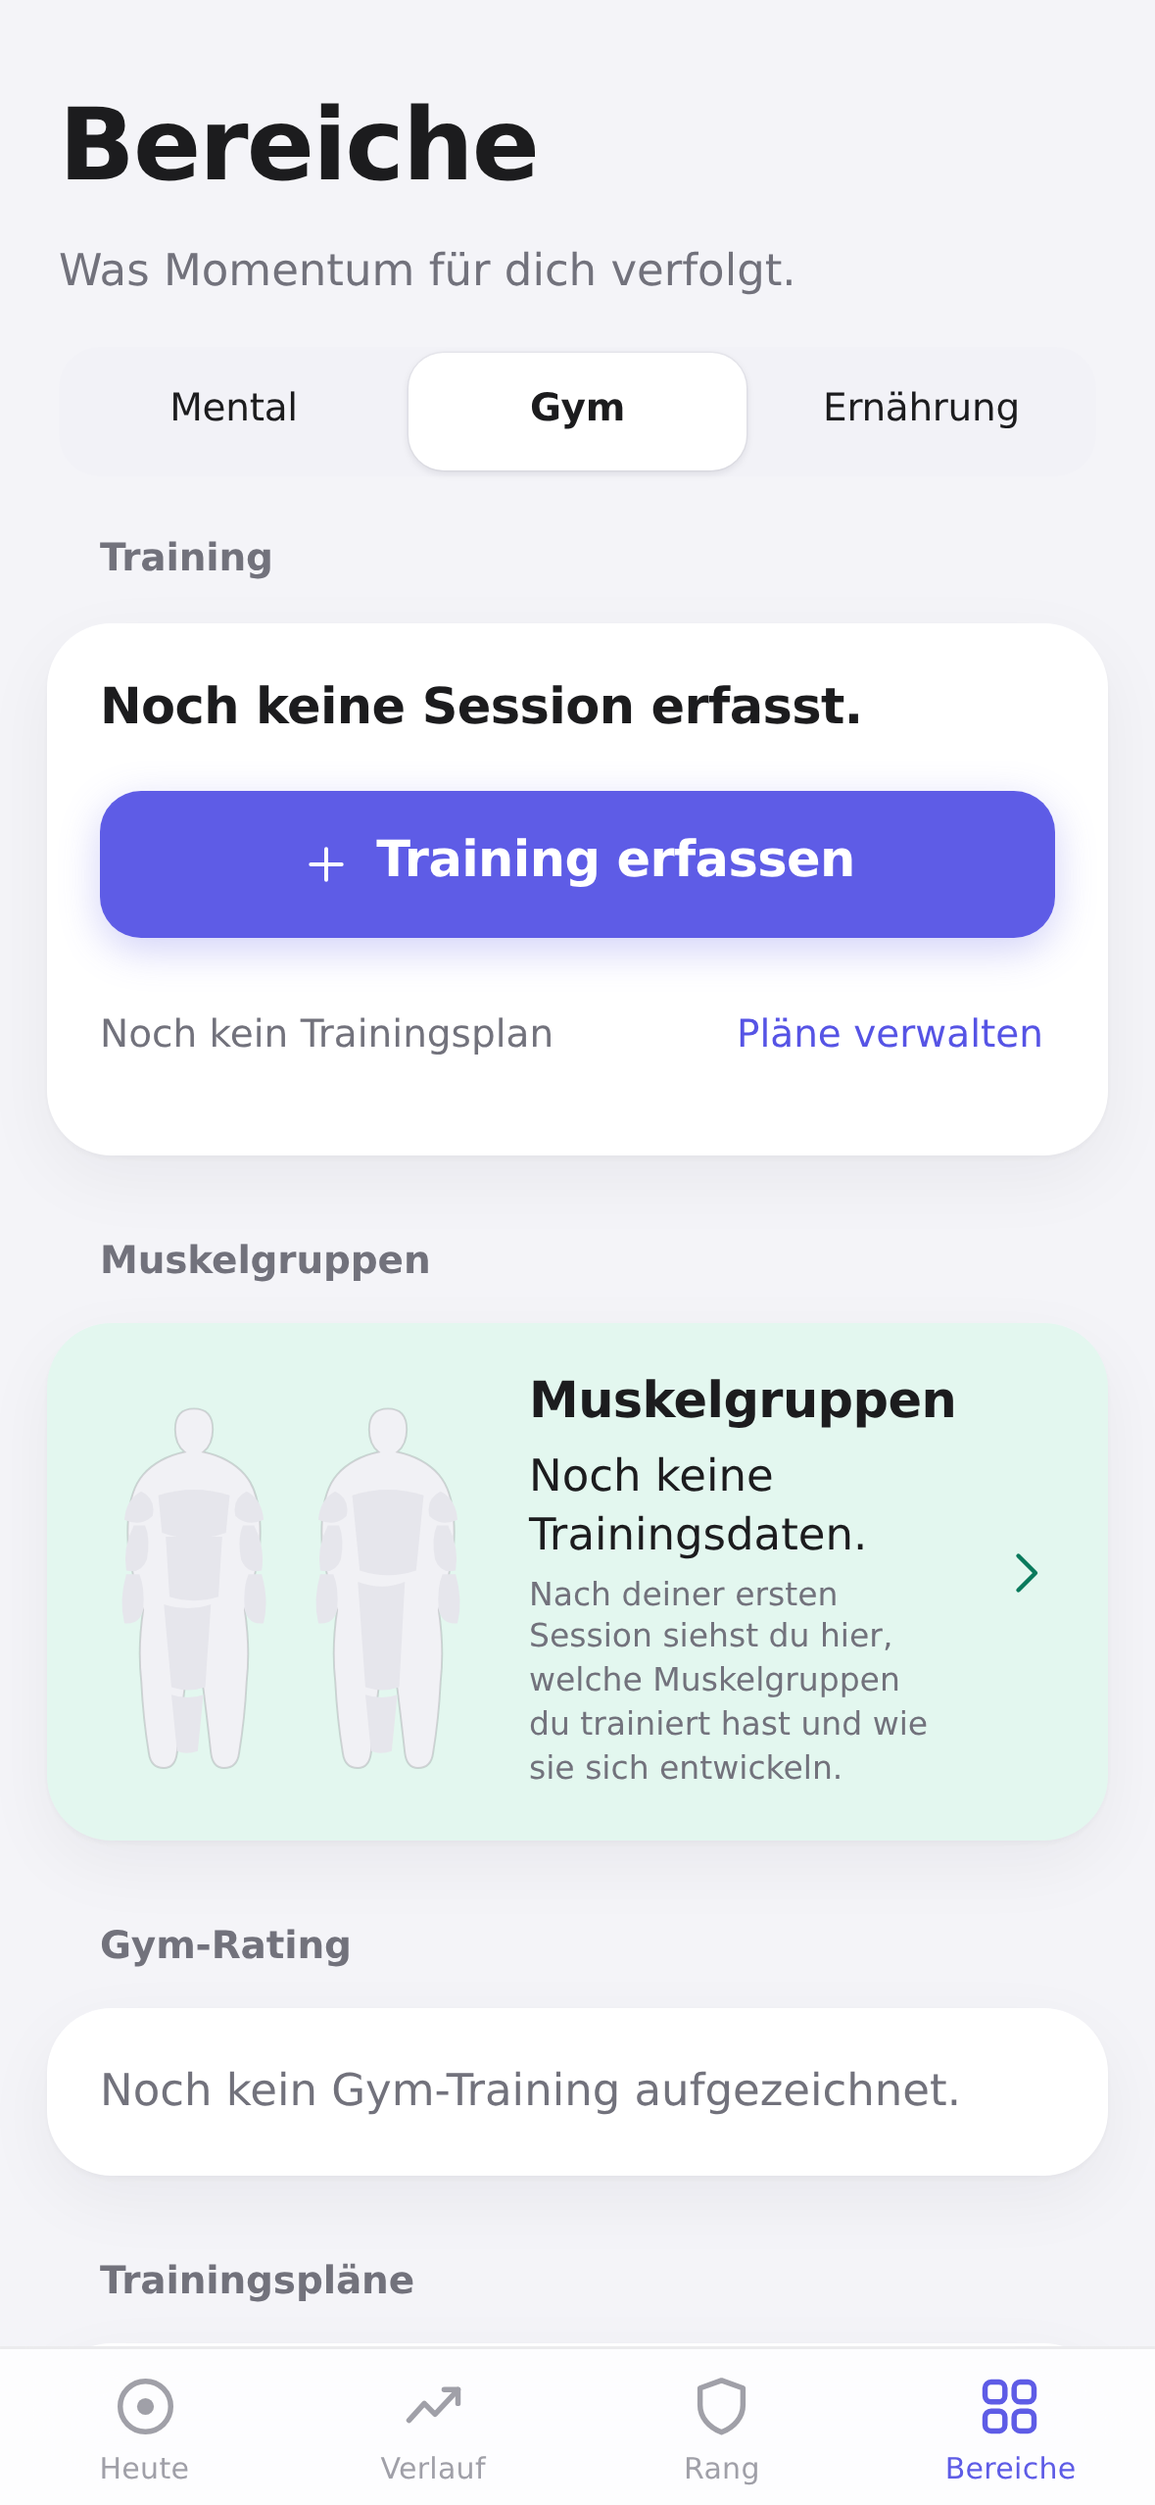
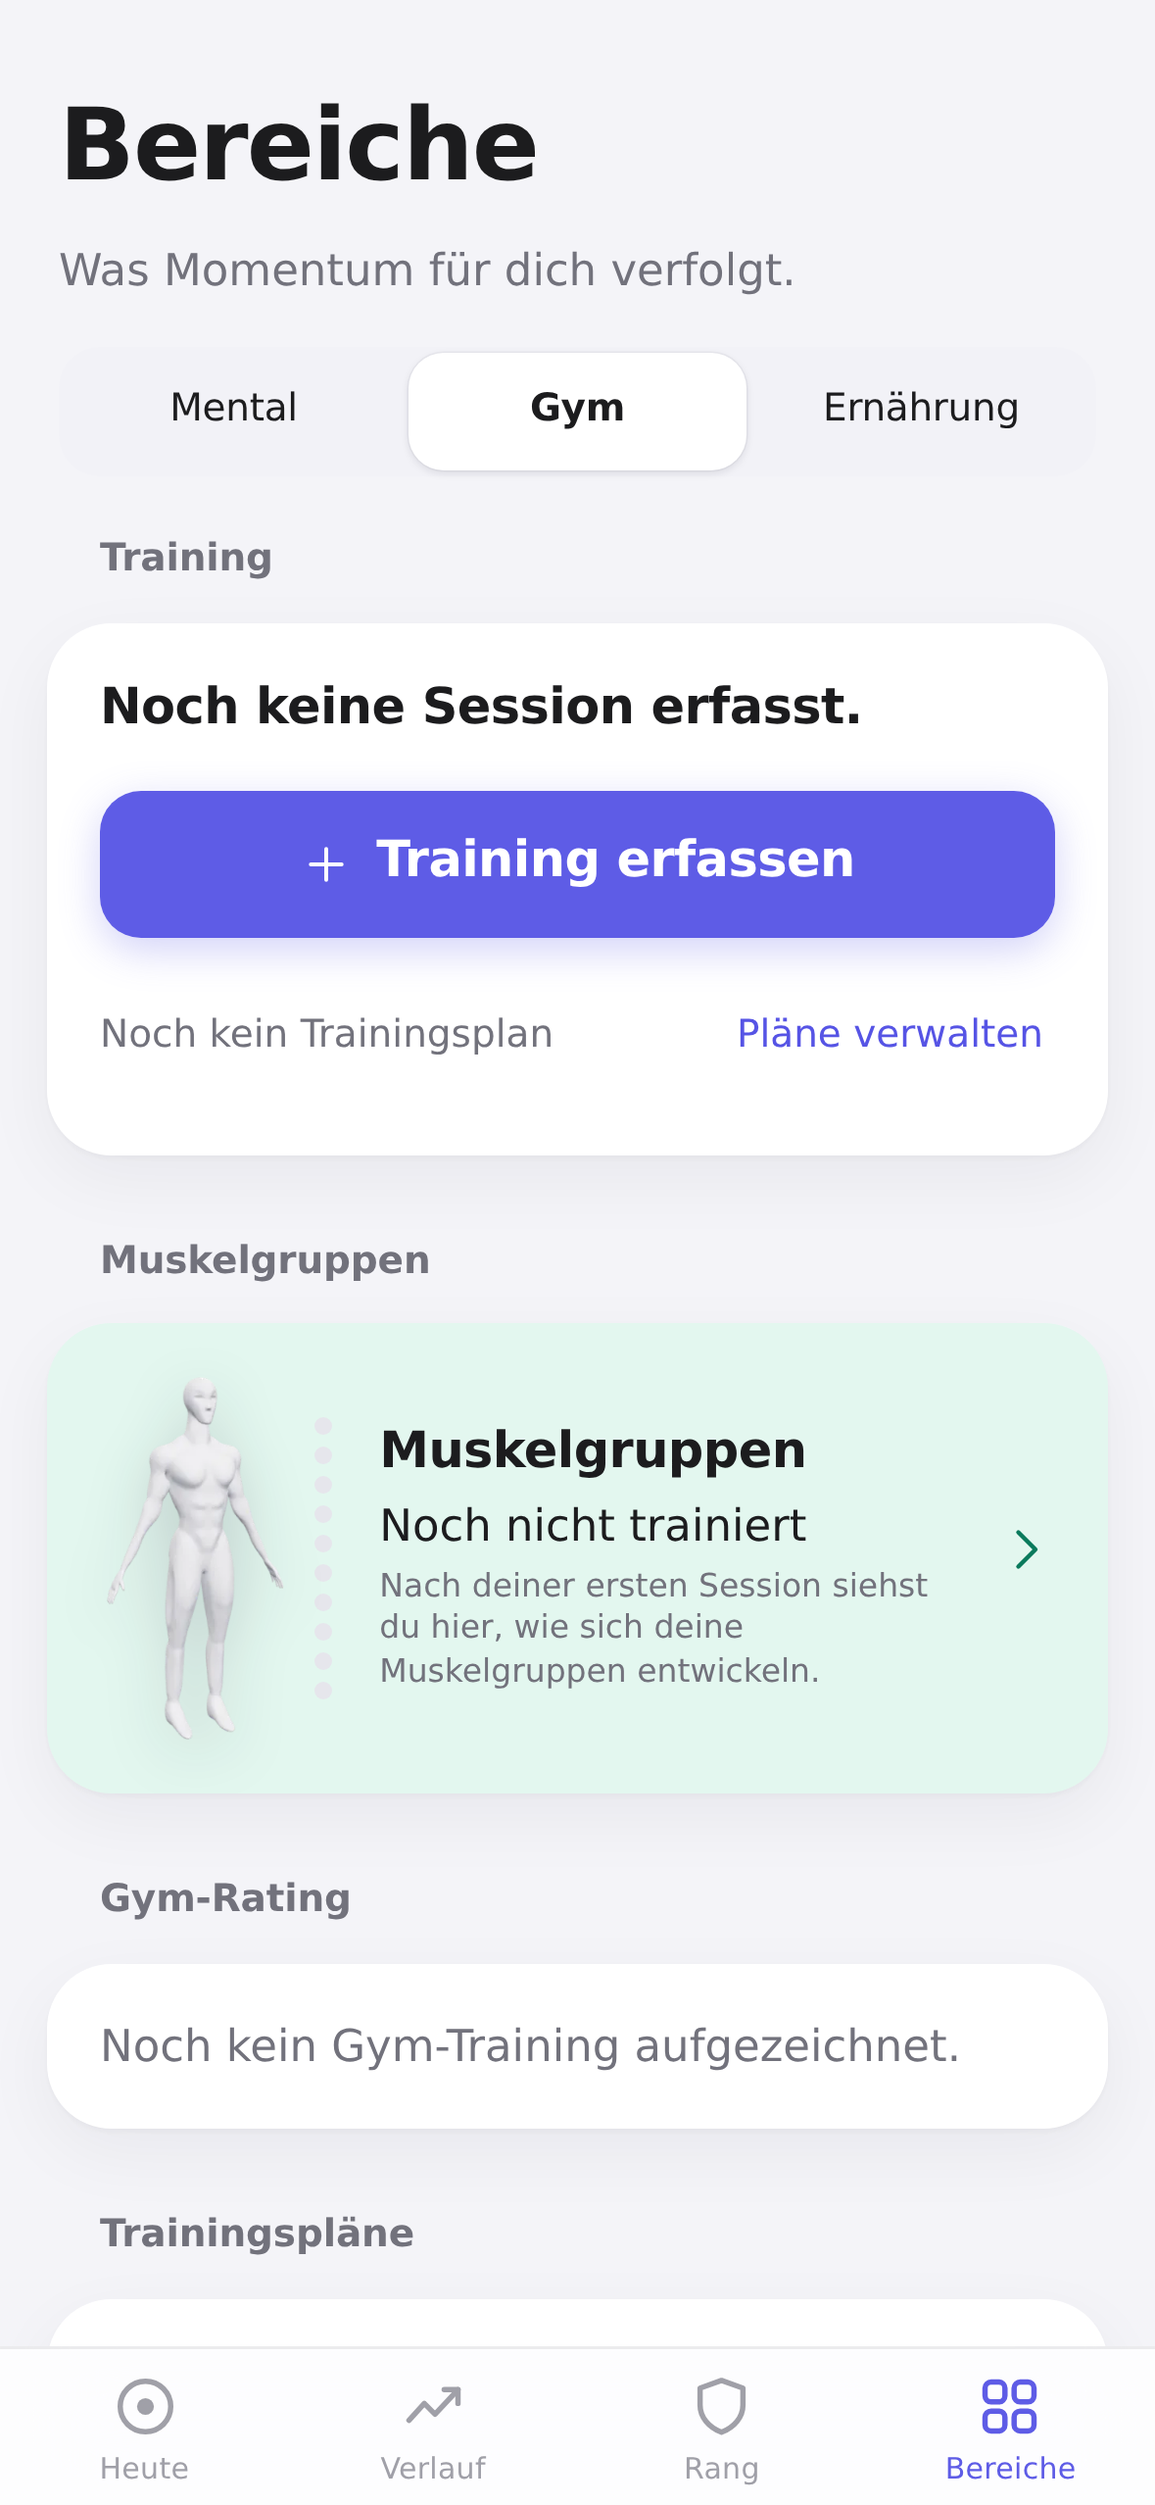
WP2-2 closeout: body preview from the approved model, training copy
Presentation only; no route, scoring, viewer or model change.

- The Gym hub's Muskelgruppen card shows a still of momentum-body.glb
  (features/gym/assets/body-preview.webp, 12 kB), rendered once through
  the real BodyViewer in its neutral tint by tools/render-body-preview.mjs.
  It has no regions and takes no colour; ten markers beside it carry the
  groups' states from the same history, grey before the first workout.
  The SVG diagram no longer appears on the hub.
- Training line reads the same two values three ways: a fraction only
  below target, "Ziel erreicht" at it, "· Ziel n" above it.
- Plan count is a figure ("1 Plan"); no-data card says "Noch nicht
  trainiert" with shorter supporting copy.
- wp2-2-shots: proves the destination draws the 3D body (WebGL canvas,
  three views, no still), captures a selected muscle (D3), checks the
  preview is one small asset and the markers light only measured groups.
- HANDOVER: preview provenance and the week sentence.

Claude-Session: https://claude.ai/code/session_015fAT3kdqgGygT9pEWBKmVm

diff --git a/src/features/gym/MuscleEntryCard.tsx b/src/features/gym/MuscleEntryCard.tsx
@@ -3,22 +3,28 @@ import { MUSCLE_GROUPS } from '../../core/model';
 import { percentChange } from '../../core/gym/performance';
 import { Section } from '../../components';
 import { ChevronRightIcon } from '../../components/Icons';
-import { BodyRenderer, type MuscleView } from '../../components/BodyRenderer';
 import { useT } from '../../i18n/I18nProvider';
 import type { GymHistory } from '../../storage/services/gymService';
+import type { MuscleState } from '../../components/BodyRenderer';
 import { muscleStateOf } from './muscleState';
+import bodyPreview from './assets/body-preview.webp';
 import './gymHub.css';
 
 /**
  * The door to muscle-group progress, on the Gym hub (WP2-2).
  *
  * A whole card that is one button, so the destination is obvious and the
- * tap target is the card. The figure inside it is the SVG body the app
- * already ships in the main bundle, drawn in the states the range shows —
- * or in the neutral, untrained state before the first workout. It is a
- * picture and is hidden from assistive technology; the button's name and
- * the two lines of text carry the facts. The 3D body is **not** here: it
- * loads only in the destination this card opens.
+ * tap target is the card. The figure inside it is a still of the approved
+ * body — `momentum-body.glb`, rendered once through the real viewer in its
+ * neutral tint and saved as a small image (`tools/render-body-preview.mjs`).
+ * It is a picture of the destination, not a second body: it has no regions,
+ * takes no colour and answers no tap of its own. What the data says is
+ * carried by the text and, as an accent, by ten small markers in the
+ * groups' order, each in the state the module shows — grey before the first
+ * workout, so nothing reads as progress that is not. All of it is hidden
+ * from assistive technology; the button's name and the lines of text carry
+ * the facts. The 3D body is **not** here: it loads only in the destination
+ * this card opens.
  *
  * Nothing is computed: the states and the overall figure are the ones
  * `GymProgress` shows, from the same loaded history.
@@ -34,7 +40,7 @@ export function MuscleEntryCard({
   onOpen(): void;
 }) {
   const t = useT();
-  const views: MuscleView[] = useMemo(
+  const states: { muscle: (typeof MUSCLE_GROUPS)[number]; state: MuscleState }[] = useMemo(
     () =>
       (history?.overall.muscles ?? MUSCLE_GROUPS.map((muscle) => ({ muscle, status: 'noData' as const, ratio: null, exercises: 0, compared: 0, latestScore: null }))).map(
         (entry) => ({ muscle: entry.muscle, state: muscleStateOf(entry) }),
@@ -42,7 +48,7 @@ export function MuscleEntryCard({
     [history],
   );
 
-  const trained = views.filter((view) => view.state !== 'noData').length;
+  const trained = states.filter((view) => view.state !== 'noData').length;
   const measured = history?.overall.measured.length ?? 0;
   const change = percentChange(history?.overall.ratio ?? null);
   const hasData = (history?.days.length ?? 0) > 0;
@@ -73,8 +79,13 @@ export function MuscleEntryCard({
         aria-label={t('gymHub.muscles.open')}
         onClick={onOpen}
       >
-        <span className="gym-hub__figure" aria-hidden="true">
-          <BodyRenderer muscles={views} parts="figure" size={64} />
+        <span className="gym-hub__preview" aria-hidden="true">
+          <img className="gym-hub__previewBody" src={bodyPreview} alt="" width={240} height={472} decoding="async" />
+          <span className="gym-hub__previewStates">
+            {states.map(({ muscle, state }) => (
+              <i key={muscle} className={`gym-hub__previewState gym-hub__previewState--${state}`} />
+            ))}
+          </span>
         </span>
         <span className="gym-hub__musclesBody">
           <span className="gym-hub__musclesTitle">{t('gymHub.muscles.title')}</span>

diff --git a/src/features/gym/gymHub.test.tsx b/src/features/gym/gymHub.test.tsx
@@ -7,6 +7,7 @@ import { MUSCLE_GROUPS } from '../../core/model';
 import { exerciseDays, gymPerformance, gymPerformanceOverSpan, latestComparisons } from '../../core/gym/performance';
 import type { GymHistory } from '../../storage/services/gymService';
 import { MuscleEntryCard } from './MuscleEntryCard';
+import { weekSentence } from './TrainingCard';
 
 /**
  * The Gym hub's door to the muscle groups (WP2-2): what it says before the
@@ -38,12 +39,14 @@ describe('the muscle entry card before the first workout', () => {
       expect(html).toMatch(/<button[^>]*aria-label="Muskelgruppen öffnen"/);
       expect(html).toContain(de['gymHub.muscles.none']);
       expect(html).toContain(de['gymHub.muscles.noneHint']);
-      // The figure is a picture, hidden from assistive technology.
-      expect(html).toMatch(/<span class="gym-hub__figure" aria-hidden="true">/);
-      // Every group is drawn in its no-data state; no other state exists yet.
-      expect(html.match(/body-renderer__muscle--noData/g)?.length ?? 0).toBeGreaterThanOrEqual(MUSCLE_GROUPS.length);
+      // The preview is a picture, hidden from assistive technology: a still
+      // of the approved body, never the SVG diagram and never the viewer.
+      expect(html).toMatch(/<span class="gym-hub__preview" aria-hidden="true"><img class="gym-hub__previewBody" src="[^"]*body-preview[^"]*\.webp" alt=""/);
+      expect(html).not.toContain('body-renderer');
+      // Every group's marker is in its no-data state; no other state exists yet.
+      expect(html.match(/gym-hub__previewState--noData/g)?.length ?? 0).toBe(MUSCLE_GROUPS.length);
       for (const state of ['improved', 'unchanged', 'declined', 'awaitingBaseline']) {
-        expect(html, state).not.toContain(`body-renderer__muscle--${state}`);
+        expect(html, state).not.toContain(`gym-hub__previewState--${state}`);
       }
     }
   });
@@ -66,6 +69,22 @@ describe('the muscle entry card before the first workout', () => {
     expect(html).toContain('Gesamt +10 %');
     expect(html).toContain('Letzte 30 Tage');
     expect(html).not.toContain(de['gymHub.muscles.none']);
+    // One marker lit for the one measured group, the other nine grey.
+    expect(html.match(/gym-hub__previewState--improved/g)?.length ?? 0).toBe(1);
+    expect(html.match(/gym-hub__previewState--noData/g)?.length ?? 0).toBe(MUSCLE_GROUPS.length - 1);
+  });
+});
+
+describe('the training card\'s week sentence', () => {
+  const t = ((key: string, params: Record<string, string | number> = {}) =>
+    Object.entries(params).reduce((text, [name, value]) => text.split(`{${name}}`).join(String(value)), (de as Record<string, string>)[key] ?? key)) as unknown as Parameters<typeof weekSentence>[0];
+
+  it('is a fraction only while the target is ahead', () => {
+    expect(weekSentence(t, 0, 3)).toBe('0 von 3 Sessions diese Woche');
+    expect(weekSentence(t, 2, 3)).toBe('2 von 3 Sessions diese Woche');
+    expect(weekSentence(t, 3, 3)).toBe('3 Sessions diese Woche ·\u00A0Ziel\u00A0erreicht');
+    expect(weekSentence(t, 1, 1)).toBe('1 Session diese Woche ·\u00A0Ziel\u00A0erreicht');
+    expect(weekSentence(t, 7, 3)).toBe('7 Sessions diese Woche ·\u00A0Ziel\u00A03');
   });
 });
 

diff --git a/src/i18n/de.ts b/src/i18n/de.ts
@@ -717,6 +717,9 @@ export const de = {
   /* ── Gym-Hub (WP2-2) ─────────────────────────────────────────────────── */
   'gymHub.training.title': 'Training',
   'gymHub.training.thisWeek': '{done} von {target} Sessions diese Woche',
+  'gymHub.training.atTarget': '{done} Sessions diese Woche ·\u00A0Ziel\u00A0erreicht',
+  'gymHub.training.atTargetOne': '1 Session diese Woche ·\u00A0Ziel\u00A0erreicht',
+  'gymHub.training.aboveTarget': '{done} Sessions diese Woche ·\u00A0Ziel\u00A0{target}',
   'gymHub.training.none': 'Noch keine Session erfasst.',
   'gymHub.training.last': 'Letzte Session: {date}',
   'gymHub.training.today': 'Heute bereits eine Session erfasst.',
@@ -724,15 +727,15 @@ export const de = {
   'gymHub.training.continue': 'Training fortsetzen',
   'gymHub.plans.none': 'Noch kein Trainingsplan',
   'gymHub.plans.count': '{count} Pläne',
-  'gymHub.plans.countOne': 'Ein Plan',
+  'gymHub.plans.countOne': '1 Plan',
   'gymHub.plans.manage': 'Pläne verwalten',
   'gymHub.muscles.title': 'Muskelgruppen',
   'gymHub.muscles.open': 'Muskelgruppen öffnen',
   'gymHub.muscles.summary': '{count} von {total} Gruppen gewertet',
   'gymHub.muscles.overall': 'Gesamt {change}',
   'gymHub.muscles.trained': '{count} von {total} Gruppen trainiert',
-  'gymHub.muscles.none': 'Noch keine Trainingsdaten.',
-  'gymHub.muscles.noneHint': 'Nach deiner ersten Session siehst du hier, welche Muskelgruppen du trainiert hast und wie sie sich entwickeln.',
+  'gymHub.muscles.none': 'Noch nicht trainiert',
+  'gymHub.muscles.noneHint': 'Nach deiner ersten Session siehst du hier, wie sich deine Muskelgruppen entwickeln.',
   'gymHub.muscles.range': 'Letzte {days} Tage',
   'gymHub.open': 'Gym öffnen',
 

diff --git a/src/i18n/en.ts b/src/i18n/en.ts
@@ -710,6 +710,9 @@ export const en: Translations = {
   /* ── Gym hub (WP2-2) ─────────────────────────────────────────────────── */
   'gymHub.training.title': 'Training',
   'gymHub.training.thisWeek': '{done} of {target} sessions this week',
+  'gymHub.training.atTarget': '{done} sessions this week ·\u00A0target\u00A0met',
+  'gymHub.training.atTargetOne': '1 session this week ·\u00A0target\u00A0met',
+  'gymHub.training.aboveTarget': '{done} sessions this week ·\u00A0target\u00A0{target}',
   'gymHub.training.none': 'No session logged yet.',
   'gymHub.training.last': 'Last session: {date}',
   'gymHub.training.today': 'A session is already logged today.',
@@ -717,15 +720,15 @@ export const en: Translations = {
   'gymHub.training.continue': 'Continue workout',
   'gymHub.plans.none': 'No training plan yet',
   'gymHub.plans.count': '{count} plans',
-  'gymHub.plans.countOne': 'One plan',
+  'gymHub.plans.countOne': '1 plan',
   'gymHub.plans.manage': 'Manage plans',
   'gymHub.muscles.title': 'Muscle groups',
   'gymHub.muscles.open': 'Open muscle groups',
   'gymHub.muscles.summary': '{count} of {total} groups counted',
   'gymHub.muscles.overall': 'Overall {change}',
   'gymHub.muscles.trained': '{count} of {total} groups trained',
-  'gymHub.muscles.none': 'No training data yet.',
-  'gymHub.muscles.noneHint': 'After your first session you will see here which muscle groups you trained and how they develop.',
+  'gymHub.muscles.none': 'Not trained yet',
+  'gymHub.muscles.noneHint': 'After your first session you will see here how your muscle groups develop.',
   'gymHub.muscles.range': 'Last {days} days',
   'gymHub.open': 'Open Gym',
 

diff --git a/src/features/gym/TrainingCard.tsx b/src/features/gym/TrainingCard.tsx
@@ -18,6 +18,12 @@ import './gymHub.css';
  * saved — and the primary action. Nothing is computed here that the app
  * does not already compute; nothing is shown that is not stored.
  */
+export function weekSentence(t: ReturnType<typeof useT>, done: number, target: number): string {
+  if (done < target) return t('gymHub.training.thisWeek', { done, target });
+  if (done === target) return done === 1 ? t('gymHub.training.atTargetOne') : t('gymHub.training.atTarget', { done });
+  return t('gymHub.training.aboveTarget', { done, target });
+}
+
 export function TrainingCard({
   rating,
   onStart,
@@ -46,13 +52,10 @@ export function TrainingCard({
   const { state } = useLoadable(load);
   const facts = state.status === 'ready' ? state.value : null;
 
-  const weekLine =
-    rating && rating.started
-      ? t('gymHub.training.thisWeek', {
-          done: rating.state.sessionsThisWeek,
-          target: rating.state.weeklyTarget,
-        })
-      : t('gymHub.training.none');
+  // The same two stored values, read three ways: a fraction only while the
+  // target is ahead, because "7 von 3" reads as a bounded progress figure
+  // that it is not. No number here changes; only the sentence does.
+  const weekLine = rating && rating.started ? weekSentence(t, rating.state.sessionsThisWeek, rating.state.weeklyTarget) : t('gymHub.training.none');
   const lastLine = facts?.latest
     ? facts.today
       ? t('gymHub.training.today')

diff --git a/src/features/gym/gymHub.css b/src/features/gym/gymHub.css
@@ -63,18 +63,54 @@
   filter: brightness(0.97);
 }
 
-/* The two figures side by side, small: a preview, not the module. */
-.gym-hub__figure {
+/* A still of the approved body, small: a picture of the destination, not
+   the module. Ten markers beside it carry the groups' states as an accent;
+   the text carries the facts. */
+.gym-hub__preview {
   flex: none;
   display: flex;
-  gap: 2px;
+  align-items: center;
+  gap: var(--space-2);
   height: 128px;
 }
 
-.gym-hub__figure .body-renderer,
-.gym-hub__figure .body-renderer__figures {
+.gym-hub__previewBody {
+  display: block;
+  width: auto;
+  height: 100%;
+  filter: drop-shadow(0 6px 10px rgba(16, 24, 40, 0.16));
+}
+
+.gym-hub__previewStates {
   display: flex;
-  gap: 2px;
+  flex-direction: column;
+  justify-content: center;
+  gap: 4px;
+}
+
+.gym-hub__previewState {
+  display: block;
+  width: 6px;
+  height: 6px;
+  border-radius: 50%;
+  background: var(--status-empty);
+}
+
+.gym-hub__previewState--awaitingBaseline {
+  background: var(--sky-fill);
+  opacity: 0.55;
+}
+
+.gym-hub__previewState--improved {
+  background: var(--status-strong);
+}
+
+.gym-hub__previewState--unchanged {
+  background: var(--status-mixed);
+}
+
+.gym-hub__previewState--declined {
+  background: var(--status-weak);
 }
 
 .gym-hub__musclesBody {

diff --git a/HANDOVER.md b/HANDOVER.md
@@ -161,8 +161,7 @@ records (answers, sessions, sets, snapshots)
 **WP2-2 — Gym navigation** (same branch, not merged)
 - `#/areas/gym` is the **Gym hub** (`features/areas/GymTerminal.tsx`):
   Training (this week, last session, *Training erfassen*, the plan count
-  with *Pläne verwalten*) → the *Muskelgruppen* entry card (bundled SVG
-  figure in the range's states, or untrained) → the rating board → the
+  with *Pläne verwalten*) → the *Muskelgruppen* entry card → the rating board → the
   plans → the Gym card and Laufen as before. `#/areas/gym/muscles` is the
   **muscle destination** (`features/gym/GymMusclesScreen.tsx`): the range
   control and the whole `GymProgress` hierarchy — overall tile, the 3D body
@@ -175,6 +174,17 @@ records (answers, sessions, sets, snapshots)
 - Only the muscle destination fetches the viewer chunk and the model
   (`release-proof.mjs`, `wp2-2-shots.mjs`); `gymHub.test.tsx` pins that no
   hub file imports `features/body`. Screenshots: `docs/design/wp2-2/`.
+- The entry card's body is a **still of the approved model**:
+  `features/gym/assets/body-preview.webp` (12 kB) is `momentum-body.glb`
+  rendered once through the real viewer in its neutral tint by
+  `tools/render-body-preview.mjs` — regenerate it from there when the model
+  changes, never redraw it. It has no regions and takes no colour; ten
+  markers beside it carry the groups' states from the same history the
+  module shows (grey before the first workout). The bundled SVG diagram
+  stays what it was: the muscle module's stand-in where WebGL is missing.
+- The training line is the same two stored values read three ways — a
+  fraction only below target, *Ziel erreicht* at it, *· Ziel n* above it —
+  so "7 von 3" never appears (`weekSentence` in `TrainingCard.tsx`).
 - Pre-existing, untouched: the "Laufen" label is rendered twice in the Gym
   area (the section heading and `RunningTerminal`'s own), as in the
   muscle-map QA screenshots.
